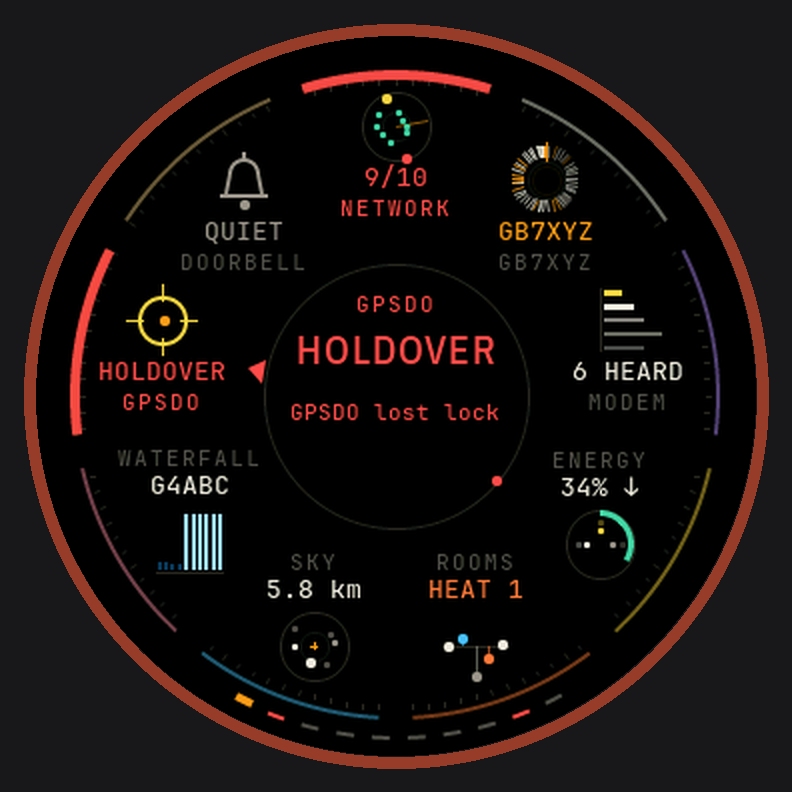
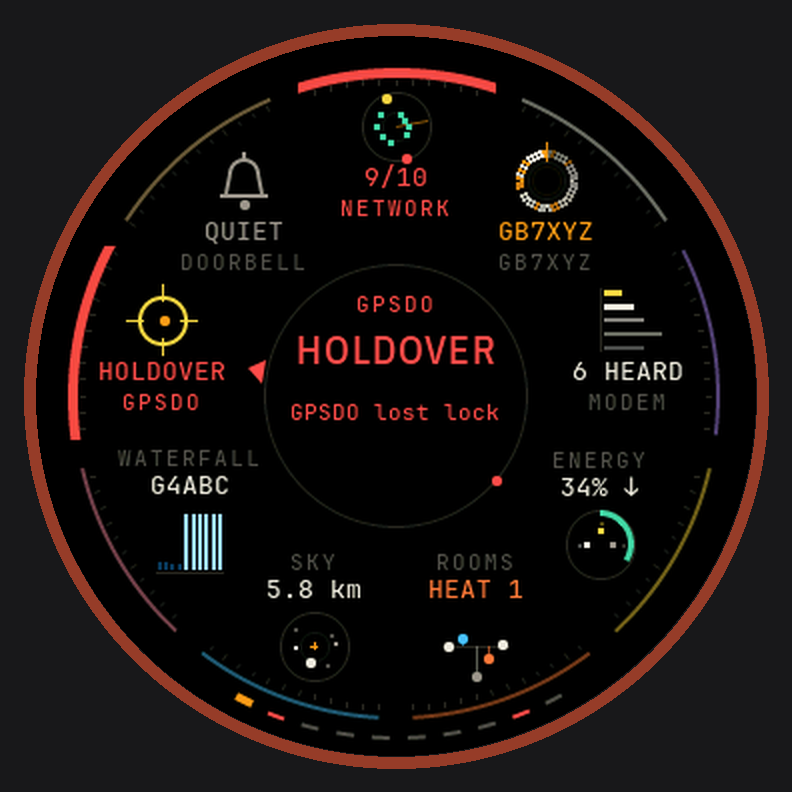
Overview: cheaper marks, so it holds its frame rate with a busy station
With the scenery fixed the Overview ran at 29.5 fps on the knob just after a restart and fell to 26.5 as the station's ten minutes of traffic filled in: every frame heard was a slanted line, and slanted lines, round dots and arcs each build coverage masks. The traffic clock is now 40 steps of 15 s drawn as plain squares, the small dots are squares, and a lit rim segment (the page in the centre, an alert, the selection) is the rim's cached image drawn through the box round that segment's arc instead of an arc drawn afresh.

Changed region(s): [[0.3636, 0.0606, 0.6364, 0.1818], [0.0606, 0.303, 0.1515, 0.5758], [0.6364, 0.1818, 0.7273, 0.2727]]

diff --git a/ui/pages/overview.c b/ui/pages/overview.c
@@ -31,6 +31,7 @@
 #define SETTLE_MS 1200        // the bezel pages straight through until the page has been up this long
 #define WF_BINS 10
 #define ST_SPAN_MS 600000u
+#define ST_SLOTS 40            // the traffic clock, in 15 s steps
 
 enum { K_HOSTS, K_STATION, K_MODEM, K_ENERGY, K_ROOMS, K_SKY, K_WATERFALL, K_GPSDO, K_DOOR, K_COUNT };
 static const char *const kind_type[K_COUNT] = {"hosts", "station", "modem", "energy", "rooms",
@@ -61,6 +62,7 @@ typedef struct {
     float ptr_ang;
     th_scenery_t scenery;
     uint32_t sc_key;
+    th_ringcache_t rim_thin, rim_thick;   // the rim as images, for lighting one segment cheaply
     time_t wall;
 
     // Headlines, copied out of the model under its lock.
@@ -74,8 +76,8 @@ typedef struct {
     struct {
         bool up;
         int n, rx, tx;
-        uint32_t t[KISS_FRAMES], seq, seen_seq, arrive_ms;
-        uint8_t is_tx[KISS_FRAMES];
+        uint32_t seq, seen_seq, arrive_ms;
+        uint8_t slot[ST_SLOTS];   // per 15 s of the last ten minutes, newest first: 0 none, 1 heard, 2 sent
         kiss_frame_t last;
     } st;
     struct {
@@ -213,15 +215,16 @@ static void snapshot(ov_t *s, uint32_t now, uint32_t dt)
     s->st.n = g_model.frames_n;
     s->st.seq = g_model.frames_seq;
     s->st.rx = s->st.tx = 0;
+    memset(s->st.slot, 0, sizeof s->st.slot);
     for (int i = 0; i < s->st.n; i++) {
         const kiss_frame_t *f = model_kiss_get(i);
-        s->st.t[i] = f->t_ms;
-        s->st.is_tx[i] = f->tx;
-        if (now - f->t_ms <= ST_SPAN_MS) {
-            if (f->tx) s->st.tx++;
-            else s->st.rx++;
-        }
+        uint32_t age = now - f->t_ms;
         if (i == 0) s->st.last = *f;
+        if (age >= ST_SPAN_MS) break;   // newest first: the rest are older still
+        if (f->tx) s->st.tx++;
+        else s->st.rx++;
+        uint8_t *sl = &s->st.slot[age / (ST_SPAN_MS / ST_SLOTS)];
+        if (*sl < 1 + f->tx) *sl = 1 + f->tx;
     }
     // Modem
     s->m.up = g_model.modem_up;
@@ -449,6 +452,65 @@ static void headline(ov_t *s, cell_t *c)
     else if (c->lv == ALERT_NOTICE) c->val_c = C_ACCENT;
 }
 
+// ---- Cheap marks ----
+// A page of small marks drawn every frame: the cost is in how each is drawn.
+// A plain square is a fill; a round dot, a slanted line or an arc each build
+// coverage masks, at several times the price.
+
+static void px(lv_layer_t *l, float x, float y, int size, lv_color_t c, lv_opa_t opa)
+{
+    int32_t x0 = (int32_t)lroundf(x - (size - 1) / 2.0f), y0 = (int32_t)lroundf(y - (size - 1) / 2.0f);
+    lv_area_t a = {x0, y0, x0 + size - 1, y0 + size - 1};
+    const lv_area_t *k = &l->_clip_area;
+    if (a.y2 < k->y1 || a.y1 > k->y2 || a.x2 < k->x1 || a.x1 > k->x2) return;
+    lv_draw_rect_dsc_t d;
+    lv_draw_rect_dsc_init(&d);
+    d.bg_color = c;
+    d.bg_opa = opa;
+    lv_draw_rect(l, &d, &a);
+}
+
+static float seg_half(const ov_t *s) { return 180.0f / s->n - 3.0f; }
+
+// One cell's rim segment, lit: the whole rim is kept as an image, and the
+// segment is that image drawn through the box round its arc (nothing else of
+// the ring is inside that box).
+static void seg(lv_layer_t *l, const ov_t *s, bool thick, float ang, lv_color_t c, lv_opa_t opa)
+{
+    const th_ringcache_t *rc = thick ? &s->rim_thick : &s->rim_thin;
+    int r = thick ? R_RIM + 2 : R_RIM, w = thick ? 5 : 2;
+    float a0 = ang - seg_half(s), a1 = ang + seg_half(s);
+    if (!rc->buf) {
+        if (s->n > 1) th_arc(l, SCR_CX, SCR_CY, r, w, a0, a1, c, opa);
+        else th_ring(l, SCR_CX, SCR_CY, r, w, c, opa);
+        return;
+    }
+    const lv_area_t saved = l->_clip_area;
+    if (s->n > 1) {
+        float as[6] = {a0, a1}, x0 = 1e9f, x1 = -1e9f, y0 = 1e9f, y1 = -1e9f;
+        int na = 2;
+        for (float q = ceilf(a0 / 90) * 90; q < a1 && na < 6; q += 90) as[na++] = q;   // where it is widest or tallest
+        for (int i = 0; i < na; i++)
+            for (int e = 0; e < 2; e++) {
+                float rr = e ? r + 0.5f : r - w - 0.5f, x = th_px(rr, as[i]), y = th_py(rr, as[i]);
+                x0 = fminf(x0, x), x1 = fmaxf(x1, x), y0 = fminf(y0, y), y1 = fmaxf(y1, y);
+            }
+        lv_area_t box = {(int32_t)floorf(x0), (int32_t)floorf(y0), (int32_t)ceilf(x1), (int32_t)ceilf(y1)}, clip;
+        clip.x1 = LV_MAX(box.x1, saved.x1), clip.y1 = LV_MAX(box.y1, saved.y1);
+        clip.x2 = LV_MIN(box.x2, saved.x2), clip.y2 = LV_MIN(box.y2, saved.y2);
+        if (clip.x1 > clip.x2 || clip.y1 > clip.y2) return;
+        l->_clip_area = clip;
+    }
+    lv_draw_image_dsc_t d;
+    lv_draw_image_dsc_init(&d);
+    d.src = rc->buf;
+    d.opa = opa;
+    d.recolor = c;
+    lv_area_t a = {SCR_CX - r, SCR_CY - r, SCR_CX + r, SCR_CY + r};
+    lv_draw_image(l, &d, &a);
+    l->_clip_area = saved;
+}
+
 // ---- Miniatures ----
 
 static void glyph_hosts(lv_layer_t *l, const ov_t *s, float x, float y)
@@ -464,20 +526,25 @@ static void glyph_hosts(lv_layer_t *l, const ov_t *s, float x, float y)
         float r = s->h.state[i] == HOST_DOWN ? GLYPH_R : 3 + (GLYPH_R - 4) * lg;
         lv_color_t c = s->h.state[i] == HOST_DOWN ? C_CRIT : s->h.state[i] == HOST_UNKNOWN ? C_DIM
                                                            : s->h.slow[i] ? C_WARN : C_OK;
-        th_dot(l, x + r * sinf(a), y - r * cosf(a), s->h.state[i] == HOST_UP && !s->h.slow[i] ? 1 : 2, c, LV_OPA_COVER);
+        if (s->h.state[i] == HOST_UP && !s->h.slow[i]) px(l, x + r * sinf(a), y - r * cosf(a), 3, c, LV_OPA_COVER);
+        else th_dot(l, x + r * sinf(a), y - r * cosf(a), 2, c, LV_OPA_COVER);
     }
 }
 
 static void glyph_station(lv_layer_t *l, const ov_t *s, float x, float y)
 {
+    // The ten-minute clock in 15 s steps, "now" at the top and the past
+    // running anticlockwise: a mark for each step with traffic, amber where
+    // the station sent.
     th_ring(l, x, y, 9, 1, C_HAIR, LV_OPA_COVER);
-    for (int i = s->st.n - 1; i >= 0; i--) {
-        uint32_t age = s->now - s->st.t[i];
-        if (age >= ST_SPAN_MS) continue;
-        float a = DEG2RAD(-360.0f * age / ST_SPAN_MS);
+    for (int i = 0; i < ST_SLOTS; i++) {
+        if (!s->st.slot[i]) continue;
+        float a = DEG2RAD(-360.0f * (i + 0.5f) / ST_SLOTS);
         float sn = sinf(a), cs = cosf(a);
-        lv_opa_t o = (lv_opa_t)(255 - 150 * (float)age / ST_SPAN_MS);
-        th_line(l, x + 11 * sn, y - 11 * cs, x + GLYPH_R * sn, y - GLYPH_R * cs, 1, s->st.is_tx[i] ? C_ACCENT : C_INK, o);
+        lv_color_t c = s->st.slot[i] == 2 ? C_ACCENT : C_INK;
+        lv_opa_t o = (lv_opa_t)(255 - 150 * i / ST_SLOTS);
+        px(l, x + 12.5f * sn, y - 12.5f * cs, 2, c, o);
+        px(l, x + 15.0f * sn, y - 15.0f * cs, 2, c, o);
     }
     th_line(l, x, y - GLYPH_R - 2, x, y - 9, 1, C_ACCENT, 230);
     uint32_t since = s->now - s->st.arrive_ms;
@@ -485,7 +552,7 @@ static void glyph_station(lv_layer_t *l, const ov_t *s, float x, float y)
         float k = since / 700.0f;
         th_ring(l, x, y, (int)(2 + 6 * k), 1, s->st.last.tx ? C_ACCENT : C_INK, (lv_opa_t)(220 * (1 - k)));
     } else {
-        th_dot(l, x, y, 1, s->st.up ? C_SUB : C_CRIT, LV_OPA_COVER);
+        px(l, x, y, 3, s->st.up ? C_SUB : C_CRIT, LV_OPA_COVER);
     }
 }
 
@@ -519,15 +586,15 @@ static void glyph_energy(lv_layer_t *l, const ov_t *s, float x, float y)
     const lv_color_t col[3] = {C_WARN, C_INK, C_SUB};
     for (int p = 0; p < 3; p++) {
         if (isnan(w[p]) || fabsf(w[p]) < 30) {
-            th_dot(l, x + dxs[p] * 6, y + dys[p] * 6, 1, C_FAINT, LV_OPA_COVER);
+            px(l, x + dxs[p] * 6, y + dys[p] * 6, 2, C_FAINT, LV_OPA_COVER);
             continue;
         }
         float t = (s->now % 900) / 900.0f;
         if (w[p] < 0) t = 1 - t;                       // flowing outwards
         float r = 11 - 9 * t;
         float fade = t < 0.2f ? t / 0.2f : t > 0.8f ? (1 - t) / 0.2f : 1;
-        th_dot(l, x + dxs[p] * r, y + dys[p] * r, 1, col[p], (lv_opa_t)(255 * fade));
-        th_dot(l, x + dxs[p] * 11, y + dys[p] * 11, 1, col[p], 90);
+        px(l, x + dxs[p] * r, y + dys[p] * r, 3, col[p], (lv_opa_t)(255 * fade));
+        px(l, x + dxs[p] * 11, y + dys[p] * 11, 2, col[p], 90);
     }
 }
 
@@ -562,7 +629,8 @@ static void glyph_sky(lv_layer_t *l, const ov_t *s, const cell_t *c, float x, fl
         bool hot = i == s->a.nearest && c->lv == ALERT_NOTICE;
         lv_color_t col = hot ? C_ACCENT : isnan(s->a.alt[i]) ? C_DIM : s->a.alt[i] < 5000 ? C_INK
                                         : s->a.alt[i] < 15000 ? C_SUB : C_DIM;
-        th_dot(l, x + s->a.dx[i] * k, y - s->a.dy[i] * k, hot || i == s->a.nearest ? 2 : 1, col, LV_OPA_COVER);
+        if (i == s->a.nearest) th_dot(l, x + s->a.dx[i] * k, y - s->a.dy[i] * k, 2, col, LV_OPA_COVER);
+        else px(l, x + s->a.dx[i] * k, y - s->a.dy[i] * k, 2, col, LV_OPA_COVER);
     }
 }
 
@@ -632,8 +700,6 @@ static void cell_layout(const cell_t *c, int *gy, int *vy, int *ly)
     }
 }
 
-static float seg_half(const ov_t *s) { return 180.0f / s->n - 3.0f; }
-
 // What never moves: the rim segments at rest and the fine scale inside them.
 // Only the rim: the copy costs by the columns it spans in each band of rows,
 // and anything nearer the middle would make that most of the screen.
@@ -689,11 +755,9 @@ static void draw_cell(lv_layer_t *l, ov_t *s, int i)
         lv_color_t ac = level_colour(c->lv);
         float p = pulse(s->now, c->lv == ALERT_CALL ? 500 : 1400);
         bool loud = urgent_level(c->lv);
-        th_arc(l, SCR_CX, SCR_CY, R_RIM + 1, loud ? 5 : 4, c->ang - seg_half(s), c->ang + seg_half(s), ac,
-               (lv_opa_t)((loud ? 90 : 150) + (loud ? 165 : 105) * p));
+        seg(l, s, true, c->ang, ac, (lv_opa_t)((loud ? 90 : 150) + (loud ? 165 : 105) * p));
     } else if (focus && c->live) {
-        th_arc(l, SCR_CX, SCR_CY, R_RIM, 2, c->ang - seg_half(s), c->ang + seg_half(s), kind_colour(c->kind),
-               LV_OPA_COVER);
+        seg(l, s, false, c->ang, kind_colour(c->kind), LV_OPA_COVER);
     }
     // The rest is the cell itself: nothing to do in a band of rows it is not in.
     if (y + 40 < l->_clip_area.y1 || y - 40 > l->_clip_area.y2) return;
@@ -706,7 +770,7 @@ static void draw_cell(lv_layer_t *l, ov_t *s, int i)
     float gx = x, gyy = y + gy;
     if (!c->live && c->kind != K_DOOR && c->kind != K_GPSDO) {
         th_ring(l, gx, gyy, GLYPH_R, 1, C_HAIR, LV_OPA_COVER);
-        th_dot(l, gx, gyy, 1, C_FAINT, LV_OPA_COVER);
+        px(l, gx, gyy, 3, C_FAINT, LV_OPA_COVER);
         return;
     }
     switch (c->kind) {
@@ -727,7 +791,7 @@ static void draw_selection(lv_layer_t *l, ov_t *s)
     // The selected page's rim segment in amber, with a claw at each end.
     const cell_t *c = &s->c[s->sel];
     float a0 = c->ang - seg_half(s), a1 = c->ang + seg_half(s);
-    th_arc(l, SCR_CX, SCR_CY, R_RIM + 2, 5, a0, a1, C_ACCENT, LV_OPA_COVER);
+    seg(l, s, true, c->ang, C_ACCENT, LV_OPA_COVER);
     th_line(l, th_px(R_RIM, a0), th_py(R_RIM, a0), th_px(R_RIM - 14, a0), th_py(R_RIM - 14, a0), 2, C_ACCENT, LV_OPA_COVER);
     th_line(l, th_px(R_RIM, a1), th_py(R_RIM, a1), th_px(R_RIM - 14, a1), th_py(R_RIM - 14, a1), 2, C_ACCENT, LV_OPA_COVER);
 }
@@ -892,7 +956,7 @@ static void draw_centre(lv_layer_t *l, ov_t *s)
 {
     if (s->spot < 0) return;
     if (SCR_CY + R_CORE + 12 < l->_clip_area.y1 || SCR_CY - R_CORE - 12 > l->_clip_area.y2) return;
-    th_ring(l, SCR_CX, SCR_CY, R_CORE, 1, C_FAINT, LV_OPA_COVER);
+    th_arc(l, SCR_CX, SCR_CY, R_CORE, 1, 0, 360, C_FAINT, LV_OPA_COVER);   // a whole ring, the cheap way
     const cell_t *c = &s->c[s->spot];
     lv_color_t kc = kind_colour(c->kind);
     bool alert = c->lv != ALERT_NONE;
@@ -974,6 +1038,8 @@ static void destroy(page_t *p)
 {
     ov_t *s = p->state;
     if (s->scenery.buf) lv_draw_buf_destroy(s->scenery.buf);
+    if (s->rim_thin.buf) lv_draw_buf_destroy(s->rim_thin.buf);
+    if (s->rim_thick.buf) lv_draw_buf_destroy(s->rim_thick.buf);
     free(s);
 }
 
@@ -1054,6 +1120,8 @@ static void tick(page_t *p, uint32_t now, uint32_t dt, bool visible)
         s->ptr_ang = fmodf(s->ptr_ang + diff * (1.0f - expf(-(float)dt / 120.0f)) + 360.0f, 360.0f);
     }
     update_scenery(s);
+    th_ring_prepare(&s->rim_thin, R_RIM, 2, lv_color_white());   // made once; drawn in any colour
+    th_ring_prepare(&s->rim_thick, R_RIM + 2, 5, lv_color_white());
     lv_obj_invalidate(s->canvas);
 }
 
